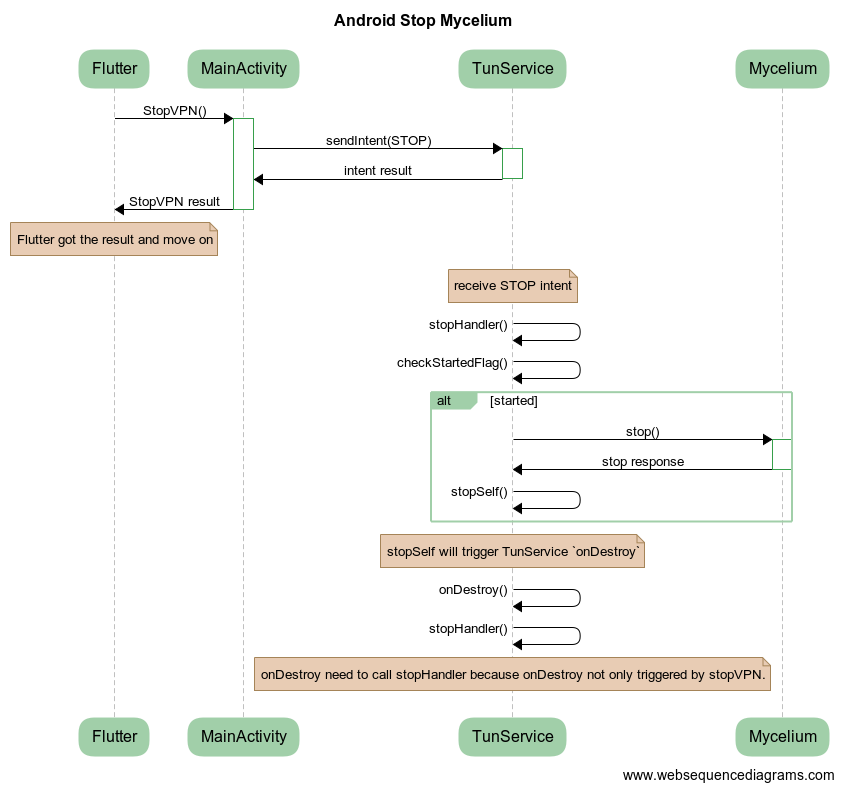
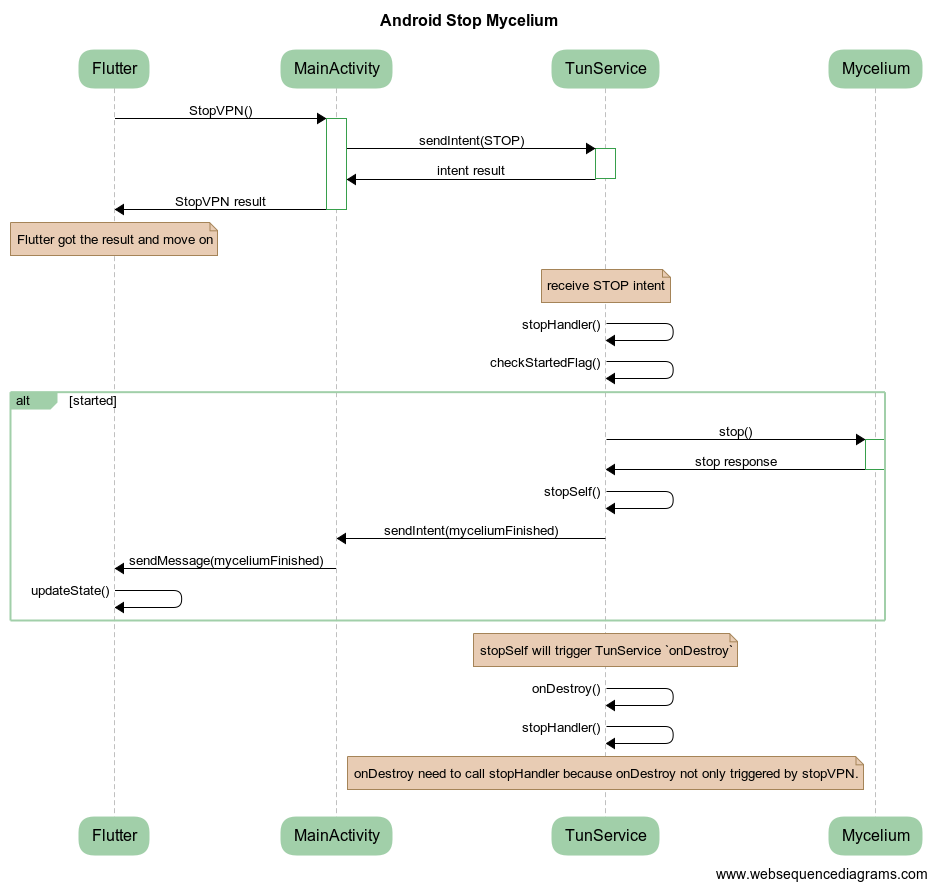
feat(ui): add restart button.
Also implement `mycelium stopped` event, which send data from Android to
Flutter when mycelium stopped.

diff --git a/lib/main.dart b/lib/main.dart
@@ -14,6 +14,7 @@ const String stopMyceliumText = 'Stop Mycelium';
 
 const String myceliumStatusStarted = 'Mycelium Started';
 const String myceliumStatusStopped = 'Mycelium Stopped';
+const String myceliumStatusRestarted = 'Mycelium Restarted';
 const String myceliumStatusFailedStart = 'Mycelium failed to start';
 
 const Color colorDarkBlue = Color(0xFF025996);
@@ -56,10 +57,11 @@ class _MyAppState extends State<MyApp> {
       switch (call.method) {
         case 'notifyMyceliumFailed':
           _logger.warning("Mycelium failed to start");
-          // Handle the method call and optionally return a result
-          // Update the UI
           setStateFailedStart();
-
+          break;
+        case 'notifyMyceliumFinished':
+          _logger.info("Mycelium finished");
+          setStateStopped();
           break;
         default:
           throw MissingPluginException();
@@ -255,9 +257,19 @@ class _MyAppState extends State<MyApp> {
                           ],
                         ),
                       ),
-                      onPressed: () {
+                      onPressed: () async {
                         stopMycelium();
+                        // Wait for isStarted to become false, but no more than 3 seconds
+                        final timeout =
+                            DateTime.now().add(const Duration(seconds: 3));
+                        while (_isStarted && DateTime.now().isBefore(timeout)) {
+                          await Future.delayed(
+                              const Duration(milliseconds: 100));
+                        }
                         startMycelium();
+                        setState(() {
+                          _myceliumStatus = myceliumStatusRestarted;
+                        });
                       },
                     ),
                   ),
@@ -271,6 +283,10 @@ class _MyAppState extends State<MyApp> {
   }
 
   void startMycelium() {
+    if (_isStarted) {
+      _logger.warning("Mycelium already started");
+      return;
+    }
     _peerValidity = '';
     final peers = getPeers(textEditController.text);
     // verify the peers
@@ -296,7 +312,7 @@ class _MyAppState extends State<MyApp> {
   void stopMycelium() {
     try {
       stopVpn(platform);
-      setStateStopped();
+      //setStateStopped();
     } on Exception {
       _logger.warning("stopping VPN failed");
     }
@@ -331,10 +347,7 @@ class _MyAppState extends State<MyApp> {
       _myceliumStatus = myceliumStatusStarted;
       _startStopButtonColor = colorMycelRed;
       _myceliumStatusColor = colorDarkBlue;
-      isRestartVisible =
-          // TODO: restart button newer shown because of this line.
-          // It is because there is still race condition when doing stop and start consecutively
-          false;
+      isRestartVisible = true;
     });
   }
 }

diff --git a/android/app/src/main/kotlin/tech/threefold/mycelium/TunService.kt b/android/app/src/main/kotlin/tech/threefold/mycelium/TunService.kt
@@ -18,9 +18,11 @@ private const val tag = "[TunService]"
 class TunService : VpnService(), CoroutineScope {
 
     companion object {
-        const val EVENT_INTENT = "tech.threefold.mycelium.TunService.EVENT"
         const val ACTION_START = "tech.threefold.mycelium.TunService.START"
         const val ACTION_STOP = "tech.threefold.mycelium.TunService.STOP"
+        const val EVENT_INTENT = "tech.threefold.mycelium.TunService.EVENT"
+        const val EVENT_MYCELIUM_FAILED = "mycelium_failed"
+        const val EVENT_MYCELIUM_FINISHED = "mycelium_finished"
     }
 
     private var started = AtomicBoolean()
@@ -105,7 +107,9 @@ class TunService : VpnService(), CoroutineScope {
                 if (started.get() == true) {
                     Log.e(tag, "mycelium unexpectedly finished")
                     stop(false)
-                    sendBroadcast(Intent(EVENT_INTENT))
+                    var intent = Intent(EVENT_INTENT)
+                    intent.putExtra("event", EVENT_MYCELIUM_FAILED)
+                    sendBroadcast(intent)
                 } else {
                     Log.i(tag, "mycelium finished cleanly")
                 }
@@ -131,5 +135,8 @@ class TunService : VpnService(), CoroutineScope {
         }
         parcel?.close()
         stopSelf()
+        var intent = Intent(EVENT_INTENT)
+        intent.putExtra("event", EVENT_MYCELIUM_FINISHED)
+        sendBroadcast(intent)
     }
 }

diff --git a/android/app/src/main/kotlin/tech/threefold/mycelium/MainActivity.kt b/android/app/src/main/kotlin/tech/threefold/mycelium/MainActivity.kt
@@ -63,7 +63,16 @@ class MainActivity: FlutterActivity() {
     // it receives events from TunService and handles them accordingly.
     private val tunServiceEventReceiver = object : BroadcastReceiver() {
         override fun onReceive(context: Context, intent: Intent) {
-            channel.invokeMethod("notifyMyceliumFailed","")
+            val event = intent.getStringExtra("event")
+            when (event) {
+                TunService.EVENT_MYCELIUM_FINISHED -> {
+                    channel.invokeMethod("notifyMyceliumFinished","")
+                }
+                TunService.EVENT_MYCELIUM_FAILED -> {
+                    channel.invokeMethod("notifyMyceliumFailed", "")
+                }
+                else -> Log.e(tag, "tunServiceEventReceiver: Unknown event: $event")
+            }
         }
     }
 

diff --git a/docs/android.md b/docs/android.md
@@ -55,6 +55,9 @@ alt started
     TunService->+Mycelium: stop()
     Mycelium->-TunService: stop response
     TunService->TunService: stopSelf()
+    TunService->MainActivity:sendIntent(myceliumFinished)
+    MainActivity->Flutter:sendMessage(myceliumFinished)
+    Flutter->Flutter:updateState()
 end
 
 note over TunService: stopSelf will trigger TunService `onDestroy`
